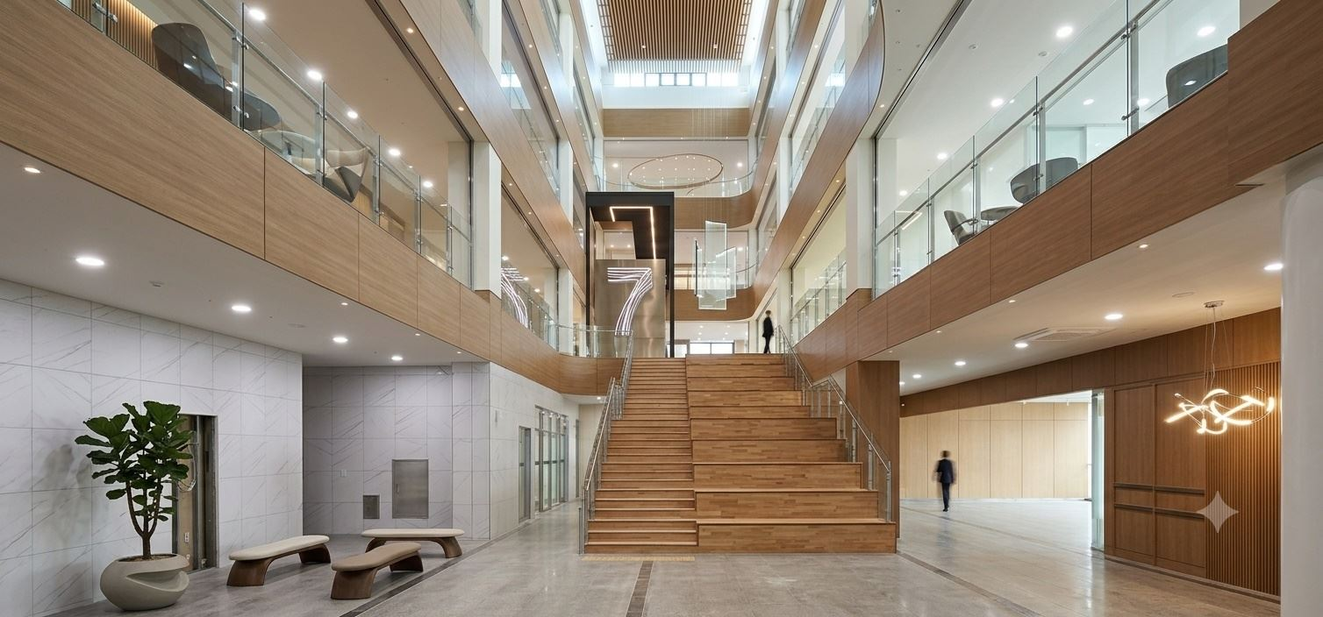
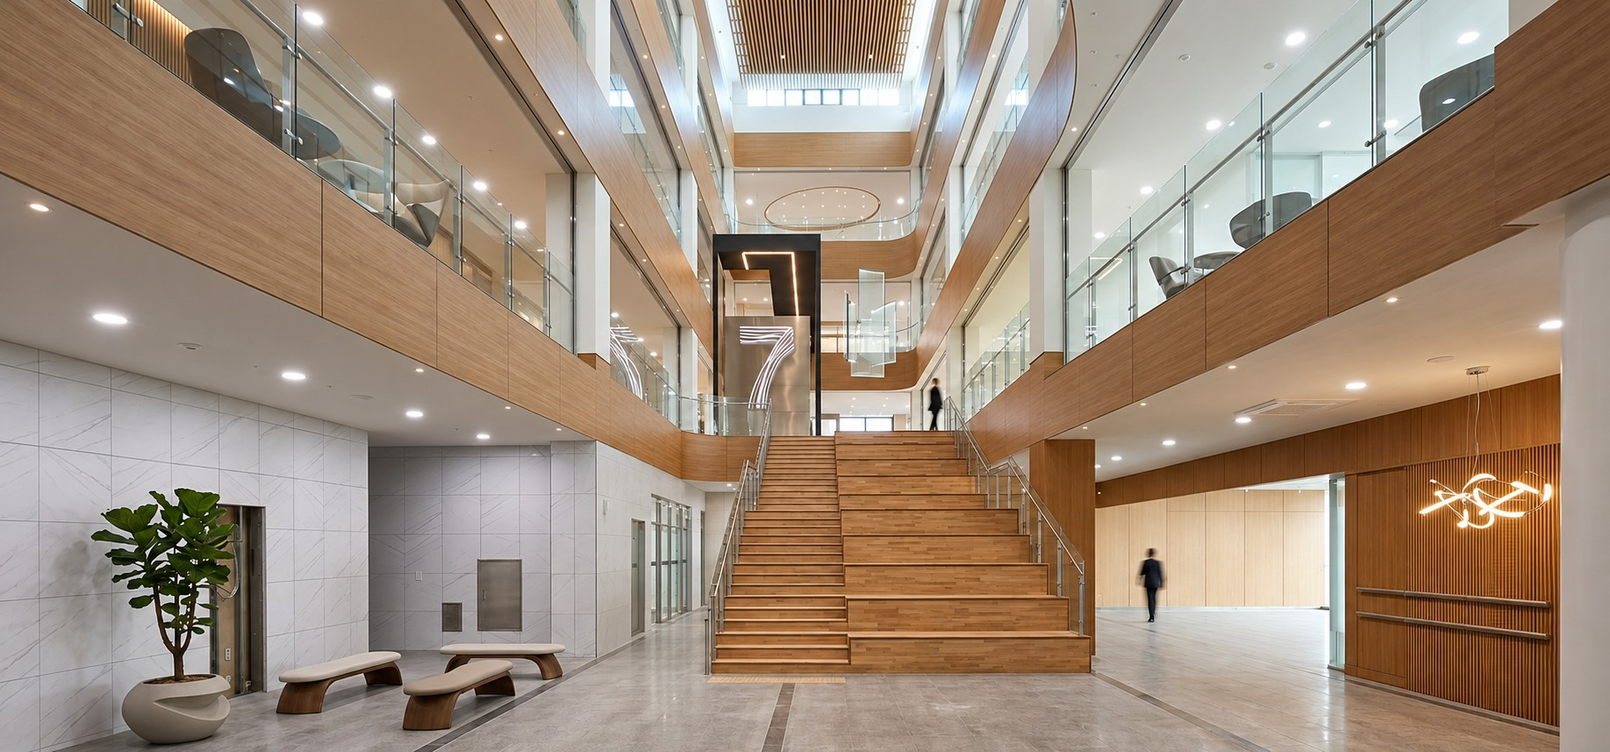
Prioritize open-chat inquiries, reduce telephone size, and clean lobby photo

diff --git a/index.html b/index.html
@@ -1,1 +1,1 @@
-<!doctype html><html lang="ko"><head><meta charset="utf-8"><meta name="viewport" content="width=device-width,initial-scale=1,viewport-fit=cover"><meta name="theme-color" content="#f6f5f0"><title>대전 인테리어 전문업체 이공간 | 사무실·주택·아파트 인테리어</title><meta name="description" content="대전 인테리어 전문업체 이공간. 대전 사무실·주택·아파트 인테리어와 대전·세종·충남 리모델링을 상담합니다. 042-525-5894"><meta property="og:type" content="website"><meta property="og:title" content="대전 인테리어 전문업체 이공간 | 사무실·주택·아파트 인테리어"><meta property="og:description" content="대전 인테리어 전문업체 이공간. 대전 사무실·주택·아파트 인테리어와 대전·세종·충남 리모델링을 상담합니다. 042-525-5894"><meta property="og:image" content="https://espace.wngkgus.workers.dev/assets/og-igongan-v3.png"><link rel="icon" href="./assets/favicon.svg?v=3" type="image/svg+xml"><link rel="icon" href="./assets/favicon-64.png?v=3" type="image/png" sizes="64x64"><link rel="shortcut icon" href="./favicon.ico?v=3"><link rel="apple-touch-icon" href="./assets/apple-touch-icon.png?v=3" sizes="180x180"><link rel="stylesheet" href="./assets/style.css"><script type="application/ld+json">{"@context":"https://schema.org","@type":"HomeAndConstructionBusiness","name":"이공간","telephone":"+82-42-525-5894","areaServed":["대전","세종","충청남도"],"description":"대전 인테리어 전문업체 이공간. 사무실·주택·아파트 인테리어 및 리모델링 상담."}</script><meta property="og:image:secure_url" content="https://espace.wngkgus.workers.dev/assets/og-igongan-v3.png"><meta property="og:image:type" content="image/png"><meta property="og:image:width" content="1200"><meta property="og:image:height" content="630"><meta property="og:image:alt" content="이공간 — 공간의 가치를 높이는 인테리어 파트너"><meta property="og:site_name" content="이공간"><meta property="og:locale" content="ko_KR"><meta name="twitter:card" content="summary_large_image"><meta name="twitter:image" content="https://espace.wngkgus.workers.dev/assets/og-igongan-v3.png"><meta name="twitter:title" content="대전 인테리어 전문업체 이공간 | 사무실·주택·아파트 인테리어"><meta name="twitter:description" content="대전 인테리어 전문업체 이공간. 대전 사무실·주택·아파트 인테리어와 대전·세종·충남 리모델링을 상담합니다. 042-525-5894"><link rel="preload" as="image" href="./assets/gallery/portfolio-45.jpg" fetchpriority="high"></head><body data-page="home"><header class="header"><a class="brand" href="./index.html"><svg class="brand-logo" viewBox="0 0 164 44" role="img" aria-label="이공간"><rect x="1.5" y="6.5" width="22" height="22" fill="none" stroke="currentColor" stroke-width="1.6"/><rect x="11.5" y="15.5" width="22" height="22" fill="none" stroke="#a39473" stroke-width="1.6"/><text x="46" y="27" font-family="'Noto Serif KR',serif" font-size="22" font-weight="600" letter-spacing="6" fill="currentColor">이공간</text><text x="47" y="40" font-family="'DM Sans',sans-serif" font-size="7" font-weight="500" letter-spacing="2.6" fill="currentColor" opacity=".62">IGONGAN INTERIOR</text></svg></a><button class="menu-toggle" aria-label="메뉴 열기" aria-expanded="false"><span></span><span></span></button><nav class="main-nav"><a href="./index.html">Home</a><a href="./about/index.html">About</a><a href="./portfolio/index.html">Portfolio</a><a class="nav-call" href="./reservation/index.html">Reservation <span>↗</span></a></nav></header><main><section class="hero"><div class="hero-photo hero-slide hero-slide-one is-active" role="img" aria-label="충남사회적경제혁신타운 로비 인테리어"></div><div class="hero-photo hero-slide hero-slide-two" role="img" aria-label="한국수자원공사 정보관 회의실"></div><div class="hero-shade"></div><div class="hero-copy"><p class="eyebrow">SPACE, MADE FOR LIFE</p><h1>혁신적인 공간,<br><em>편안한 현실이 되다.</em></h1><p class="hero-sub">가치를 높이는 공간 솔루션,<br>주식회사 이공간이 함께합니다.</p><a class="hero-action" href="./reservation/index.html">내 공간에 맞는 상담 시작하기 <span>↗</span></a><a class="round-link" href="./portfolio/index.html" aria-label="포트폴리오 보기">↘</a><span class="hero-index">01 — 02</span></div><div class="hero-dots" aria-label="메인 사진 선택"><button type="button" class="is-active" aria-label="첫 번째 사진"></button><button type="button" aria-label="두 번째 사진"></button></div><div class="hero-caption"><span>DESIGN THAT FEELS LIKE YOU</span><span>INTERIOR · REMODELING</span></div></section><section class="intro section-pad"><div class="section-kicker">01 / ABOUT IGONGAN</div><div class="intro-grid"><h2>좋은 공간은<br><em>생활을 이해하는 것</em>에서<br>시작됩니다.</h2><div class="intro-text"><p>집과 일터, 매일을 보내는 공간에 필요한 변화는 무엇일까요. 이공간은 쓰임과 취향을 먼저 듣고, 오래 편안한 공간을 함께 그립니다.</p><a class="text-link" href="./about/index.html">이공간 이야기 <span>↗</span></a></div></div><div class="intro-line"></div></section><section class="work section-pad"><div class="section-head"><div><div class="section-kicker">02 / SELECTED WORKS</div><h2>공간마다 다른 이야기</h2></div><a class="text-link" href="./portfolio/index.html">전체 포트폴리오 <span>↗</span></a></div><div class="work-grid"><a class="work-card work-large" href="./portfolio/index.html"><img src="./assets/gallery/portfolio-18.jpg" alt="이음학교 도서관 인테리어 시공 사례" loading="lazy"><span class="work-label">EDUCATION <small>이음학교 · 도서관</small></span></a><a class="work-card" href="./portfolio/index.html"><img src="./assets/gallery/portfolio-36.jpg" alt="업무공간 인테리어 시공 사례" loading="lazy"><span class="work-label">OFFICE <small>업무 공간</small></span></a><a class="work-card" href="./portfolio/index.html"><img src="./assets/gallery/portfolio-53.jpg" alt="주택 인테리어 시공 사례" loading="lazy"><span class="work-label">RESIDENTIAL <small>소정리 주택</small></span></a></div></section><section class="feature-values section-pad"><div class="section-kicker">WHAT MATTERS TO US</div><div class="feature-values-grid"><article><div class="feature-icon"><svg viewBox="0 0 48 48" aria-hidden="true"><path d="M8 21 24 9l16 12M13 19v19h22V19M20 38V26h8v12M18 17h12"/></svg></div><h3>편리성</h3><p>사용자 중심의 효율적인 동선과 실용적인 맞춤형 공간으로 매일이 편리한 공간을 연출합니다.</p></article><article><div class="feature-icon"><svg viewBox="0 0 48 48" aria-hidden="true"><path d="m10 35 4-11 17-17a4 4 0 0 1 6 6L20 30l-10 5ZM14 24l11 10M29 10l8 8M8 40h32"/></svg></div><h3>디테일</h3><p>눈에 보이지 않는 공정까지 살피고 섬세한 마감으로 완성도를 높입니다.</p></article><article><div class="feature-icon"><svg viewBox="0 0 48 48" aria-hidden="true"><path d="M11 8h26v32H11zM17 17h14M17 24h7M17 32l4 4 10-11"/></svg></div><h3>지속가능성</h3><p>검증된 자재와 기초 시공으로 오래도록 가치를 유지하는 공간을 지향합니다.</p></article></div></section><section class="specialty-section section-pad"><div class="section-kicker">SPACE SOLUTIONS</div><h2>공간별 맞춤 전문 시공 분야</h2><div class="specialty-grid"><article><span>OFFICE</span><h3>오피스 공간</h3><ul><li>기업 아이덴티티 반영</li><li>업무 효율을 높이는 동선</li><li>스마트한 사무환경</li></ul></article><article><span>COMMERCIAL</span><h3>상업 공간</h3><ul><li>매장을 위한 트렌디한 디자인</li><li>고객 중심 동선과 조명</li><li>브랜드 가치를 살리는 연출</li></ul></article><article><span>RESIDENTIAL</span><h3>주거 공간</h3><ul><li>1:1 맞춤형 라이프스타일</li><li>수납과 구조 개선</li><li>친환경 자재를 고려한 시공</li></ul></article></div></section><section class="services section-pad"><div class="services-intro"><div class="section-kicker">03 / WHAT WE DO</div><h2>필요한 공간을<br><em>제대로</em> 만듭니다.</h2><p>공간의 목적과 생활 방식에 맞춰<br>처음부터 마무리까지 함께합니다.</p><a class="text-link" href="./reservation/index.html">상담 문의 <span>↗</span></a></div><div class="service-list"><a href="./daejeon-office-interior/index.html">사무실 인테리어<span>↗</span></a><a href="./daejeon-sejong-chungnam-interior/index.html">지역 맞춤 인테리어<span>↗</span></a><a href="./daejeon-house-interior/index.html">주택 인테리어<span>↗</span></a><a href="./daejeon-apartment-interior/index.html">아파트 인테리어<span>↗</span></a><a href="./daejeon-remodeling/index.html">리모델링<span>↗</span></a><a href="./daejeon-sejong-chungnam-remodeling/index.html">지역 맞춤 리모델링<span>↗</span></a></div></section><section class="cta"><div class="cta-bg"></div><div class="cta-copy"><p class="eyebrow">LET'S TALK ABOUT YOUR SPACE</p><h2>다음 공간 이야기를<br>들려주세요.</h2><div class="chat-inquiry"><div class="contact-channel-links"><a class="chat-inquiry-link phone-inquiry-link" href="tel:0425255894"><svg viewBox="0 0 24 24" aria-hidden="true" fill="none" stroke="currentColor" stroke-width="1.7" stroke-linecap="round" stroke-linejoin="round"><path d="M22 16.9v3a2 2 0 0 1-2.2 2A19.8 19.8 0 0 1 3.1 5.2 2 2 0 0 1 5.1 3h3a2 2 0 0 1 2 1.7c.1 1 .4 2 .7 2.9a2 2 0 0 1-.5 2.1L9 11a16 16 0 0 0 4 4l1.3-1.3a2 2 0 0 1 2.1-.5c.9.3 1.9.6 2.9.7a2 2 0 0 1 1.7 2Z"/></svg><span>전화로 상담하기</span><span aria-hidden="true">↗</span></a><a class="chat-inquiry-link" href="https://open.kakao.com/o/sbT8mOVi" target="_blank" rel="noopener noreferrer"><svg viewBox="0 0 24 24" aria-hidden="true"><path fill="currentColor" d="M12 3C6.5 3 2 6.4 2 10.6c0 2.7 1.8 5 4.4 6.4l-1.1 4 4.6-2.8c.7.1 1.4.2 2.1.2 5.5 0 10-3.5 10-7.8S17.5 3 12 3Z"/></svg><span>카카오톡 오픈채팅 문의</span><span aria-hidden="true">↗</span></a><a class="chat-inquiry-link blog-inquiry-link" href="https://blog.naver.com/espacec" target="_blank" rel="noopener noreferrer"><svg viewBox="0 0 24 24" aria-hidden="true" fill="none" stroke="currentColor" stroke-width="1.6" stroke-linecap="round" stroke-linejoin="round"><rect x="4" y="3" width="16" height="18" rx="2"/><path d="M8 8h8M8 12h8M8 16h5"/></svg><span>이공간 네이버 블로그</span><span aria-hidden="true">↗</span></a></div><p class="chat-inquiry-note">전화·카카오톡으로 상담하거나 블로그에서 시공 사례를 확인해 보세요.</p></div></div></section></main><footer class="footer"><div class="footer-top"><svg class="brand-logo" viewBox="0 0 164 44" role="img" aria-label="이공간"><rect x="1.5" y="6.5" width="22" height="22" fill="none" stroke="currentColor" stroke-width="1.6"/><rect x="11.5" y="15.5" width="22" height="22" fill="none" stroke="#a39473" stroke-width="1.6"/><text x="46" y="27" font-family="'Noto Serif KR',serif" font-size="22" font-weight="600" letter-spacing="6" fill="currentColor">이공간</text><text x="47" y="40" font-family="'DM Sans',sans-serif" font-size="7" font-weight="500" letter-spacing="2.6" fill="currentColor" opacity=".62">IGONGAN INTERIOR</text></svg></div><address class="footer-info"><span><b>주소</b>대전광역시 유성구 학하중앙로 205 2층</span><span><b>Tel</b><a href="tel:0425255894">042-525-5894</a></span><span><b>Fax</b>042-525-5897</span><span><b>E-mail</b><a href="mailto:espacec@naver.com">espacec@naver.com</a></span></address><div class="footer-bottom"><span>인테리어 전문업체 이공간</span><span>© IGONGAN. ALL RIGHTS RESERVED.</span></div></footer><div class="mobile-call"><a href="tel:0425255894"><span class="call-icon">↗</span><span><small>공간 상담 전화</small><b>042-525-5894</b></span></a></div><script src="./assets/site.js" defer></script><nav class="social-shortcuts" aria-label="이공간 소셜 바로가기"><a class="social-shortcut social-blog" href="https://blog.naver.com/espacec" target="_blank" rel="noopener noreferrer" aria-label="이공간 네이버 블로그 열기 (새 창)" title="네이버 블로그"><svg viewBox="0 0 40 40" aria-hidden="true"><path fill="currentColor" d="M9 7h22a5 5 0 0 1 5 5v14a5 5 0 0 1-5 5h-9l-7 6v-6H9a5 5 0 0 1-5-5V12a5 5 0 0 1 5-5Z"/><text x="20" y="23" text-anchor="middle" fill="#03c75a" font-family="Arial,sans-serif" font-weight="700" font-size="12">blog</text></svg></a><a class="social-shortcut social-kakao" href="https://open.kakao.com/o/sbT8mOVi" target="_blank" rel="noopener noreferrer" aria-label="이공간 카카오톡 상담 열기 (새 창)" title="카카오톡 상담"><svg viewBox="0 0 40 40" aria-hidden="true"><path fill="currentColor" d="M20 5C10 5 2 11.1 2 18.6c0 4.8 3.2 9 8 11.4l-2 7 8.3-4.9c1.2.2 2.4.3 3.7.3 10 0 18-6.2 18-13.8S30 5 20 5Z"/><text x="20" y="22" text-anchor="middle" fill="#fee500" font-family="Arial,sans-serif" font-weight="900" font-size="11">TALK</text></svg></a></nav></body></html>
+<!doctype html><html lang="ko"><head><meta charset="utf-8"><meta name="viewport" content="width=device-width,initial-scale=1,viewport-fit=cover"><meta name="theme-color" content="#f6f5f0"><title>대전 인테리어 전문업체 이공간 | 사무실·주택·아파트 인테리어</title><meta name="description" content="대전 인테리어 전문업체 이공간. 대전 사무실·주택·아파트 인테리어와 대전·세종·충남 리모델링을 상담합니다. 042-525-5894"><meta property="og:type" content="website"><meta property="og:title" content="대전 인테리어 전문업체 이공간 | 사무실·주택·아파트 인테리어"><meta property="og:description" content="대전 인테리어 전문업체 이공간. 대전 사무실·주택·아파트 인테리어와 대전·세종·충남 리모델링을 상담합니다. 042-525-5894"><meta property="og:image" content="https://espace.wngkgus.workers.dev/assets/og-igongan-v3.png"><link rel="icon" href="./assets/favicon.svg?v=3" type="image/svg+xml"><link rel="icon" href="./assets/favicon-64.png?v=3" type="image/png" sizes="64x64"><link rel="shortcut icon" href="./favicon.ico?v=3"><link rel="apple-touch-icon" href="./assets/apple-touch-icon.png?v=3" sizes="180x180"><link rel="stylesheet" href="./assets/style.css"><script type="application/ld+json">{"@context":"https://schema.org","@type":"HomeAndConstructionBusiness","name":"이공간","telephone":"+82-42-525-5894","areaServed":["대전","세종","충청남도"],"description":"대전 인테리어 전문업체 이공간. 사무실·주택·아파트 인테리어 및 리모델링 상담."}</script><meta property="og:image:secure_url" content="https://espace.wngkgus.workers.dev/assets/og-igongan-v3.png"><meta property="og:image:type" content="image/png"><meta property="og:image:width" content="1200"><meta property="og:image:height" content="630"><meta property="og:image:alt" content="이공간 — 공간의 가치를 높이는 인테리어 파트너"><meta property="og:site_name" content="이공간"><meta property="og:locale" content="ko_KR"><meta name="twitter:card" content="summary_large_image"><meta name="twitter:image" content="https://espace.wngkgus.workers.dev/assets/og-igongan-v3.png"><meta name="twitter:title" content="대전 인테리어 전문업체 이공간 | 사무실·주택·아파트 인테리어"><meta name="twitter:description" content="대전 인테리어 전문업체 이공간. 대전 사무실·주택·아파트 인테리어와 대전·세종·충남 리모델링을 상담합니다. 042-525-5894"><link rel="preload" as="image" href="./assets/hero-lobby-clean.jpg" fetchpriority="high"></head><body data-page="home"><header class="header"><a class="brand" href="./index.html"><svg class="brand-logo" viewBox="0 0 164 44" role="img" aria-label="이공간"><rect x="1.5" y="6.5" width="22" height="22" fill="none" stroke="currentColor" stroke-width="1.6"/><rect x="11.5" y="15.5" width="22" height="22" fill="none" stroke="#a39473" stroke-width="1.6"/><text x="46" y="27" font-family="'Noto Serif KR',serif" font-size="22" font-weight="600" letter-spacing="6" fill="currentColor">이공간</text><text x="47" y="40" font-family="'DM Sans',sans-serif" font-size="7" font-weight="500" letter-spacing="2.6" fill="currentColor" opacity=".62">IGONGAN INTERIOR</text></svg></a><button class="menu-toggle" aria-label="메뉴 열기" aria-expanded="false"><span></span><span></span></button><nav class="main-nav"><a href="./index.html">Home</a><a href="./about/index.html">About</a><a href="./portfolio/index.html">Portfolio</a><a class="nav-call" href="./reservation/index.html">Reservation <span>↗</span></a></nav></header><main><section class="hero"><div class="hero-photo hero-slide hero-slide-one is-active" role="img" aria-label="충남사회적경제혁신타운 로비 인테리어"></div><div class="hero-photo hero-slide hero-slide-two" role="img" aria-label="한국수자원공사 정보관 회의실"></div><div class="hero-shade"></div><div class="hero-copy"><p class="eyebrow">SPACE, MADE FOR LIFE</p><h1>혁신적인 공간,<br><em>편안한 현실이 되다.</em></h1><p class="hero-sub">가치를 높이는 공간 솔루션,<br>주식회사 이공간이 함께합니다.</p><a class="hero-action" href="./reservation/index.html">내 공간에 맞는 상담 시작하기 <span>↗</span></a><a class="round-link" href="./portfolio/index.html" aria-label="포트폴리오 보기">↘</a><span class="hero-index">01 — 02</span></div><div class="hero-dots" aria-label="메인 사진 선택"><button type="button" class="is-active" aria-label="첫 번째 사진"></button><button type="button" aria-label="두 번째 사진"></button></div><div class="hero-caption"><span>DESIGN THAT FEELS LIKE YOU</span><span>INTERIOR · REMODELING</span></div></section><section class="intro section-pad"><div class="section-kicker">01 / ABOUT IGONGAN</div><div class="intro-grid"><h2>좋은 공간은<br><em>생활을 이해하는 것</em>에서<br>시작됩니다.</h2><div class="intro-text"><p>집과 일터, 매일을 보내는 공간에 필요한 변화는 무엇일까요. 이공간은 쓰임과 취향을 먼저 듣고, 오래 편안한 공간을 함께 그립니다.</p><a class="text-link" href="./about/index.html">이공간 이야기 <span>↗</span></a></div></div><div class="intro-line"></div></section><section class="work section-pad"><div class="section-head"><div><div class="section-kicker">02 / SELECTED WORKS</div><h2>공간마다 다른 이야기</h2></div><a class="text-link" href="./portfolio/index.html">전체 포트폴리오 <span>↗</span></a></div><div class="work-grid"><a class="work-card work-large" href="./portfolio/index.html"><img src="./assets/gallery/portfolio-18.jpg" alt="이음학교 도서관 인테리어 시공 사례" loading="lazy"><span class="work-label">EDUCATION <small>이음학교 · 도서관</small></span></a><a class="work-card" href="./portfolio/index.html"><img src="./assets/gallery/portfolio-36.jpg" alt="업무공간 인테리어 시공 사례" loading="lazy"><span class="work-label">OFFICE <small>업무 공간</small></span></a><a class="work-card" href="./portfolio/index.html"><img src="./assets/gallery/portfolio-53.jpg" alt="주택 인테리어 시공 사례" loading="lazy"><span class="work-label">RESIDENTIAL <small>소정리 주택</small></span></a></div></section><section class="feature-values section-pad"><div class="section-kicker">WHAT MATTERS TO US</div><div class="feature-values-grid"><article><div class="feature-icon"><svg viewBox="0 0 48 48" aria-hidden="true"><path d="M8 21 24 9l16 12M13 19v19h22V19M20 38V26h8v12M18 17h12"/></svg></div><h3>편리성</h3><p>사용자 중심의 효율적인 동선과 실용적인 맞춤형 공간으로 매일이 편리한 공간을 연출합니다.</p></article><article><div class="feature-icon"><svg viewBox="0 0 48 48" aria-hidden="true"><path d="m10 35 4-11 17-17a4 4 0 0 1 6 6L20 30l-10 5ZM14 24l11 10M29 10l8 8M8 40h32"/></svg></div><h3>디테일</h3><p>눈에 보이지 않는 공정까지 살피고 섬세한 마감으로 완성도를 높입니다.</p></article><article><div class="feature-icon"><svg viewBox="0 0 48 48" aria-hidden="true"><path d="M11 8h26v32H11zM17 17h14M17 24h7M17 32l4 4 10-11"/></svg></div><h3>지속가능성</h3><p>검증된 자재와 기초 시공으로 오래도록 가치를 유지하는 공간을 지향합니다.</p></article></div></section><section class="specialty-section section-pad"><div class="section-kicker">SPACE SOLUTIONS</div><h2>공간별 맞춤 전문 시공 분야</h2><div class="specialty-grid"><article><span>OFFICE</span><h3>오피스 공간</h3><ul><li>기업 아이덴티티 반영</li><li>업무 효율을 높이는 동선</li><li>스마트한 사무환경</li></ul></article><article><span>COMMERCIAL</span><h3>상업 공간</h3><ul><li>매장을 위한 트렌디한 디자인</li><li>고객 중심 동선과 조명</li><li>브랜드 가치를 살리는 연출</li></ul></article><article><span>RESIDENTIAL</span><h3>주거 공간</h3><ul><li>1:1 맞춤형 라이프스타일</li><li>수납과 구조 개선</li><li>친환경 자재를 고려한 시공</li></ul></article></div></section><section class="services section-pad"><div class="services-intro"><div class="section-kicker">03 / WHAT WE DO</div><h2>필요한 공간을<br><em>제대로</em> 만듭니다.</h2><p>공간의 목적과 생활 방식에 맞춰<br>처음부터 마무리까지 함께합니다.</p><a class="text-link" href="./reservation/index.html">상담 문의 <span>↗</span></a></div><div class="service-list"><a href="./daejeon-office-interior/index.html">사무실 인테리어<span>↗</span></a><a href="./daejeon-sejong-chungnam-interior/index.html">지역 맞춤 인테리어<span>↗</span></a><a href="./daejeon-house-interior/index.html">주택 인테리어<span>↗</span></a><a href="./daejeon-apartment-interior/index.html">아파트 인테리어<span>↗</span></a><a href="./daejeon-remodeling/index.html">리모델링<span>↗</span></a><a href="./daejeon-sejong-chungnam-remodeling/index.html">지역 맞춤 리모델링<span>↗</span></a></div></section><section class="cta"><div class="cta-bg"></div><div class="cta-copy"><p class="eyebrow">LET'S TALK ABOUT YOUR SPACE</p><h2>다음 공간 이야기를<br>들려주세요.</h2><div class="chat-inquiry"><div class="contact-channel-links"><a class="chat-inquiry-link phone-inquiry-link" href="tel:0425255894"><svg viewBox="0 0 24 24" aria-hidden="true" fill="none" stroke="currentColor" stroke-width="1.7" stroke-linecap="round" stroke-linejoin="round"><path d="M22 16.9v3a2 2 0 0 1-2.2 2A19.8 19.8 0 0 1 3.1 5.2 2 2 0 0 1 5.1 3h3a2 2 0 0 1 2 1.7c.1 1 .4 2 .7 2.9a2 2 0 0 1-.5 2.1L9 11a16 16 0 0 0 4 4l1.3-1.3a2 2 0 0 1 2.1-.5c.9.3 1.9.6 2.9.7a2 2 0 0 1 1.7 2Z"/></svg><span>전화로 상담하기</span><span aria-hidden="true">↗</span></a><a class="chat-inquiry-link" href="https://open.kakao.com/o/sbT8mOVi" target="_blank" rel="noopener noreferrer"><svg viewBox="0 0 24 24" aria-hidden="true"><path fill="currentColor" d="M12 3C6.5 3 2 6.4 2 10.6c0 2.7 1.8 5 4.4 6.4l-1.1 4 4.6-2.8c.7.1 1.4.2 2.1.2 5.5 0 10-3.5 10-7.8S17.5 3 12 3Z"/></svg><span>카카오톡 오픈채팅 문의</span><span aria-hidden="true">↗</span></a><a class="chat-inquiry-link blog-inquiry-link" href="https://blog.naver.com/espacec" target="_blank" rel="noopener noreferrer"><svg viewBox="0 0 24 24" aria-hidden="true" fill="none" stroke="currentColor" stroke-width="1.6" stroke-linecap="round" stroke-linejoin="round"><rect x="4" y="3" width="16" height="18" rx="2"/><path d="M8 8h8M8 12h8M8 16h5"/></svg><span>이공간 네이버 블로그</span><span aria-hidden="true">↗</span></a></div><p class="chat-inquiry-note">전화·카카오톡으로 상담하거나 블로그에서 시공 사례를 확인해 보세요.</p></div></div></section></main><footer class="footer"><div class="footer-top"><svg class="brand-logo" viewBox="0 0 164 44" role="img" aria-label="이공간"><rect x="1.5" y="6.5" width="22" height="22" fill="none" stroke="currentColor" stroke-width="1.6"/><rect x="11.5" y="15.5" width="22" height="22" fill="none" stroke="#a39473" stroke-width="1.6"/><text x="46" y="27" font-family="'Noto Serif KR',serif" font-size="22" font-weight="600" letter-spacing="6" fill="currentColor">이공간</text><text x="47" y="40" font-family="'DM Sans',sans-serif" font-size="7" font-weight="500" letter-spacing="2.6" fill="currentColor" opacity=".62">IGONGAN INTERIOR</text></svg></div><address class="footer-info"><span><b>주소</b>대전광역시 유성구 학하중앙로 205 2층</span><span><b>Tel</b><a href="tel:0425255894">042-525-5894</a></span><span><b>Fax</b>042-525-5897</span><span><b>E-mail</b><a href="mailto:espacec@naver.com">espacec@naver.com</a></span></address><div class="footer-bottom"><span>인테리어 전문업체 이공간</span><span>© IGONGAN. ALL RIGHTS RESERVED.</span></div></footer><div class="mobile-call"><a href="tel:0425255894"><span class="call-icon">↗</span><span><small>공간 상담 전화</small><b>042-525-5894</b></span></a></div><script src="./assets/site.js" defer></script><nav class="social-shortcuts" aria-label="이공간 소셜 바로가기"><a class="social-shortcut social-blog" href="https://blog.naver.com/espacec" target="_blank" rel="noopener noreferrer" aria-label="이공간 네이버 블로그 열기 (새 창)" title="네이버 블로그"><svg viewBox="0 0 40 40" aria-hidden="true"><path fill="currentColor" d="M9 7h22a5 5 0 0 1 5 5v14a5 5 0 0 1-5 5h-9l-7 6v-6H9a5 5 0 0 1-5-5V12a5 5 0 0 1 5-5Z"/><text x="20" y="23" text-anchor="middle" fill="#03c75a" font-family="Arial,sans-serif" font-weight="700" font-size="12">blog</text></svg></a><a class="social-shortcut social-kakao" href="https://open.kakao.com/o/sbT8mOVi" target="_blank" rel="noopener noreferrer" aria-label="이공간 카카오톡 상담 열기 (새 창)" title="카카오톡 상담"><svg viewBox="0 0 40 40" aria-hidden="true"><path fill="currentColor" d="M20 5C10 5 2 11.1 2 18.6c0 4.8 3.2 9 8 11.4l-2 7 8.3-4.9c1.2.2 2.4.3 3.7.3 10 0 18-6.2 18-13.8S30 5 20 5Z"/><text x="20" y="22" text-anchor="middle" fill="#fee500" font-family="Arial,sans-serif" font-weight="900" font-size="11">TALK</text></svg></a></nav></body></html>

diff --git a/reservation/index.html b/reservation/index.html
@@ -1,1 +1,1 @@
-<!doctype html><html lang="ko"><head><meta charset="utf-8"><meta name="viewport" content="width=device-width,initial-scale=1,viewport-fit=cover"><meta name="theme-color" content="#f6f5f0"><title>상담 문의 | 이공간 대전 인테리어</title><meta name="description" content="대전 인테리어·리모델링 상담 문의. 이공간 전화 042-525-5894. 대전, 세종, 충남."><meta property="og:type" content="website"><meta property="og:title" content="상담 문의 | 이공간 대전 인테리어"><meta property="og:description" content="대전 인테리어·리모델링 상담 문의. 이공간 전화 042-525-5894. 대전, 세종, 충남."><meta property="og:image" content="https://espace.wngkgus.workers.dev/assets/og-igongan-v3.png"><link rel="icon" href="../assets/favicon.svg?v=3" type="image/svg+xml"><link rel="icon" href="../assets/favicon-64.png?v=3" type="image/png" sizes="64x64"><link rel="shortcut icon" href="../favicon.ico?v=3"><link rel="apple-touch-icon" href="../assets/apple-touch-icon.png?v=3" sizes="180x180"><link rel="stylesheet" href="../assets/style.css"><script type="application/ld+json">{"@context":"https://schema.org","@type":"HomeAndConstructionBusiness","name":"이공간","telephone":"+82-42-525-5894","areaServed":["대전","세종","충청남도"],"description":"대전 인테리어 전문업체 이공간. 사무실·주택·아파트 인테리어 및 리모델링 상담."}</script><meta property="og:image:secure_url" content="https://espace.wngkgus.workers.dev/assets/og-igongan-v3.png"><meta property="og:image:type" content="image/png"><meta property="og:image:width" content="1200"><meta property="og:image:height" content="630"><meta property="og:image:alt" content="이공간 — 공간의 가치를 높이는 인테리어 파트너"><meta property="og:site_name" content="이공간"><meta property="og:locale" content="ko_KR"><meta name="twitter:card" content="summary_large_image"><meta name="twitter:image" content="https://espace.wngkgus.workers.dev/assets/og-igongan-v3.png"><meta name="twitter:title" content="상담 문의 | 이공간 대전 인테리어"><meta name="twitter:description" content="대전 인테리어·리모델링 상담 문의. 이공간 전화 042-525-5894. 대전, 세종, 충남."></head><body data-page="reservation"><header class="header"><a class="brand" href="../index.html"><svg class="brand-logo" viewBox="0 0 164 44" role="img" aria-label="이공간"><rect x="1.5" y="6.5" width="22" height="22" fill="none" stroke="currentColor" stroke-width="1.6"/><rect x="11.5" y="15.5" width="22" height="22" fill="none" stroke="#a39473" stroke-width="1.6"/><text x="46" y="27" font-family="'Noto Serif KR',serif" font-size="22" font-weight="600" letter-spacing="6" fill="currentColor">이공간</text><text x="47" y="40" font-family="'DM Sans',sans-serif" font-size="7" font-weight="500" letter-spacing="2.6" fill="currentColor" opacity=".62">IGONGAN INTERIOR</text></svg></a><button class="menu-toggle" aria-label="메뉴 열기" aria-expanded="false"><span></span><span></span></button><nav class="main-nav"><a href="../index.html">Home</a><a href="../about/index.html">About</a><a href="../portfolio/index.html">Portfolio</a><a class="nav-call" href="../reservation/index.html">Reservation <span>↗</span></a></nav></header><main><section class="contact-page section-pad"><p class="eyebrow">RESERVATION <i></i> CONTACT</p><h1>공간 이야기를<br><em>들려주세요.</em></h1><p class="contact-lead">로그인이나 온라인 예약 없이<br>전화 또는 카카오톡으로 편하게 문의하실 수 있습니다.</p><a class="contact-number" href="tel:0425255894">042-525-5894 <span>↗</span></a><p class="contact-note">전화번호를 누르면 전화로 연결됩니다.</p><div class="chat-inquiry"><div class="contact-channel-links"><a class="chat-inquiry-link" href="https://open.kakao.com/o/sbT8mOVi" target="_blank" rel="noopener noreferrer"><svg viewBox="0 0 24 24" aria-hidden="true"><path fill="currentColor" d="M12 3C6.5 3 2 6.4 2 10.6c0 2.7 1.8 5 4.4 6.4l-1.1 4 4.6-2.8c.7.1 1.4.2 2.1.2 5.5 0 10-3.5 10-7.8S17.5 3 12 3Z"/></svg><span>카카오톡 오픈채팅 문의</span><span aria-hidden="true">↗</span></a><a class="chat-inquiry-link blog-inquiry-link" href="https://blog.naver.com/espacec" target="_blank" rel="noopener noreferrer"><svg viewBox="0 0 24 24" aria-hidden="true" fill="none" stroke="currentColor" stroke-width="1.6" stroke-linecap="round" stroke-linejoin="round"><rect x="4" y="3" width="16" height="18" rx="2"/><path d="M8 8h8M8 12h8M8 16h5"/></svg><span>이공간 네이버 블로그</span><span aria-hidden="true">↗</span></a></div><p class="chat-inquiry-note">카카오톡으로 상담하거나 블로그에서 시공 사례를 확인해 보세요.</p></div><div class="contact-bottom"><span>INTERIOR / REMODELING</span></div></section></main><footer class="footer"><div class="footer-top"><svg class="brand-logo" viewBox="0 0 164 44" role="img" aria-label="이공간"><rect x="1.5" y="6.5" width="22" height="22" fill="none" stroke="currentColor" stroke-width="1.6"/><rect x="11.5" y="15.5" width="22" height="22" fill="none" stroke="#a39473" stroke-width="1.6"/><text x="46" y="27" font-family="'Noto Serif KR',serif" font-size="22" font-weight="600" letter-spacing="6" fill="currentColor">이공간</text><text x="47" y="40" font-family="'DM Sans',sans-serif" font-size="7" font-weight="500" letter-spacing="2.6" fill="currentColor" opacity=".62">IGONGAN INTERIOR</text></svg></div><address class="footer-info"><span><b>주소</b>대전광역시 유성구 학하중앙로 205 2층</span><span><b>Tel</b><a href="tel:0425255894">042-525-5894</a></span><span><b>Fax</b>042-525-5897</span><span><b>E-mail</b><a href="mailto:espacec@naver.com">espacec@naver.com</a></span></address><div class="footer-bottom"><span>인테리어 전문업체 이공간</span><span>© IGONGAN. ALL RIGHTS RESERVED.</span></div></footer><div class="mobile-call"><a href="tel:0425255894"><span class="call-icon">↗</span><span><small>공간 상담 전화</small><b>042-525-5894</b></span></a></div><script src="../assets/site.js" defer></script><nav class="social-shortcuts" aria-label="이공간 소셜 바로가기"><a class="social-shortcut social-blog" href="https://blog.naver.com/espacec" target="_blank" rel="noopener noreferrer" aria-label="이공간 네이버 블로그 열기 (새 창)" title="네이버 블로그"><svg viewBox="0 0 40 40" aria-hidden="true"><path fill="currentColor" d="M9 7h22a5 5 0 0 1 5 5v14a5 5 0 0 1-5 5h-9l-7 6v-6H9a5 5 0 0 1-5-5V12a5 5 0 0 1 5-5Z"/><text x="20" y="23" text-anchor="middle" fill="#03c75a" font-family="Arial,sans-serif" font-weight="700" font-size="12">blog</text></svg></a><a class="social-shortcut social-kakao" href="https://open.kakao.com/o/sbT8mOVi" target="_blank" rel="noopener noreferrer" aria-label="이공간 카카오톡 상담 열기 (새 창)" title="카카오톡 상담"><svg viewBox="0 0 40 40" aria-hidden="true"><path fill="currentColor" d="M20 5C10 5 2 11.1 2 18.6c0 4.8 3.2 9 8 11.4l-2 7 8.3-4.9c1.2.2 2.4.3 3.7.3 10 0 18-6.2 18-13.8S30 5 20 5Z"/><text x="20" y="22" text-anchor="middle" fill="#fee500" font-family="Arial,sans-serif" font-weight="900" font-size="11">TALK</text></svg></a></nav></body></html>
+<!doctype html><html lang="ko"><head><meta charset="utf-8"><meta name="viewport" content="width=device-width,initial-scale=1,viewport-fit=cover"><meta name="theme-color" content="#f6f5f0"><title>상담 문의 | 이공간 대전 인테리어</title><meta name="description" content="대전 인테리어·리모델링 상담 문의. 이공간 전화 042-525-5894. 대전, 세종, 충남."><meta property="og:type" content="website"><meta property="og:title" content="상담 문의 | 이공간 대전 인테리어"><meta property="og:description" content="대전 인테리어·리모델링 상담 문의. 이공간 전화 042-525-5894. 대전, 세종, 충남."><meta property="og:image" content="https://espace.wngkgus.workers.dev/assets/og-igongan-v3.png"><link rel="icon" href="../assets/favicon.svg?v=3" type="image/svg+xml"><link rel="icon" href="../assets/favicon-64.png?v=3" type="image/png" sizes="64x64"><link rel="shortcut icon" href="../favicon.ico?v=3"><link rel="apple-touch-icon" href="../assets/apple-touch-icon.png?v=3" sizes="180x180"><link rel="stylesheet" href="../assets/style.css"><script type="application/ld+json">{"@context":"https://schema.org","@type":"HomeAndConstructionBusiness","name":"이공간","telephone":"+82-42-525-5894","areaServed":["대전","세종","충청남도"],"description":"대전 인테리어 전문업체 이공간. 사무실·주택·아파트 인테리어 및 리모델링 상담."}</script><meta property="og:image:secure_url" content="https://espace.wngkgus.workers.dev/assets/og-igongan-v3.png"><meta property="og:image:type" content="image/png"><meta property="og:image:width" content="1200"><meta property="og:image:height" content="630"><meta property="og:image:alt" content="이공간 — 공간의 가치를 높이는 인테리어 파트너"><meta property="og:site_name" content="이공간"><meta property="og:locale" content="ko_KR"><meta name="twitter:card" content="summary_large_image"><meta name="twitter:image" content="https://espace.wngkgus.workers.dev/assets/og-igongan-v3.png"><meta name="twitter:title" content="상담 문의 | 이공간 대전 인테리어"><meta name="twitter:description" content="대전 인테리어·리모델링 상담 문의. 이공간 전화 042-525-5894. 대전, 세종, 충남."></head><body data-page="reservation"><header class="header"><a class="brand" href="../index.html"><svg class="brand-logo" viewBox="0 0 164 44" role="img" aria-label="이공간"><rect x="1.5" y="6.5" width="22" height="22" fill="none" stroke="currentColor" stroke-width="1.6"/><rect x="11.5" y="15.5" width="22" height="22" fill="none" stroke="#a39473" stroke-width="1.6"/><text x="46" y="27" font-family="'Noto Serif KR',serif" font-size="22" font-weight="600" letter-spacing="6" fill="currentColor">이공간</text><text x="47" y="40" font-family="'DM Sans',sans-serif" font-size="7" font-weight="500" letter-spacing="2.6" fill="currentColor" opacity=".62">IGONGAN INTERIOR</text></svg></a><button class="menu-toggle" aria-label="메뉴 열기" aria-expanded="false"><span></span><span></span></button><nav class="main-nav"><a href="../index.html">Home</a><a href="../about/index.html">About</a><a href="../portfolio/index.html">Portfolio</a><a class="nav-call" href="../reservation/index.html">Reservation <span>↗</span></a></nav></header><main><section class="contact-page section-pad"><p class="eyebrow">RESERVATION <i></i> CONTACT</p><h1>공간 이야기를<br><em>들려주세요.</em></h1><p class="contact-lead">카카오톡 오픈채팅으로 편하게 문의해 주세요.<br>전화 상담도 가능합니다.</p><div class="chat-inquiry"><div class="contact-channel-links"><a class="chat-inquiry-link" href="https://open.kakao.com/o/sbT8mOVi" target="_blank" rel="noopener noreferrer"><svg viewBox="0 0 24 24" aria-hidden="true"><path fill="currentColor" d="M12 3C6.5 3 2 6.4 2 10.6c0 2.7 1.8 5 4.4 6.4l-1.1 4 4.6-2.8c.7.1 1.4.2 2.1.2 5.5 0 10-3.5 10-7.8S17.5 3 12 3Z"/></svg><span>카카오톡 오픈채팅 문의</span><span aria-hidden="true">↗</span></a><a class="chat-inquiry-link blog-inquiry-link" href="https://blog.naver.com/espacec" target="_blank" rel="noopener noreferrer"><svg viewBox="0 0 24 24" aria-hidden="true" fill="none" stroke="currentColor" stroke-width="1.6" stroke-linecap="round" stroke-linejoin="round"><rect x="4" y="3" width="16" height="18" rx="2"/><path d="M8 8h8M8 12h8M8 16h5"/></svg><span>이공간 네이버 블로그</span><span aria-hidden="true">↗</span></a></div><p class="chat-inquiry-note">카카오톡으로 상담하거나 블로그에서 시공 사례를 확인해 보세요.</p></div><div class="contact-phone-secondary"><span class="contact-phone-label">전화 상담</span><a class="contact-number" href="tel:0425255894">042-525-5894 <span>↗</span></a><p class="contact-note">전화번호를 누르면 연결됩니다.</p></div><div class="contact-bottom"><span>INTERIOR / REMODELING</span></div></section></main><footer class="footer"><div class="footer-top"><svg class="brand-logo" viewBox="0 0 164 44" role="img" aria-label="이공간"><rect x="1.5" y="6.5" width="22" height="22" fill="none" stroke="currentColor" stroke-width="1.6"/><rect x="11.5" y="15.5" width="22" height="22" fill="none" stroke="#a39473" stroke-width="1.6"/><text x="46" y="27" font-family="'Noto Serif KR',serif" font-size="22" font-weight="600" letter-spacing="6" fill="currentColor">이공간</text><text x="47" y="40" font-family="'DM Sans',sans-serif" font-size="7" font-weight="500" letter-spacing="2.6" fill="currentColor" opacity=".62">IGONGAN INTERIOR</text></svg></div><address class="footer-info"><span><b>주소</b>대전광역시 유성구 학하중앙로 205 2층</span><span><b>Tel</b><a href="tel:0425255894">042-525-5894</a></span><span><b>Fax</b>042-525-5897</span><span><b>E-mail</b><a href="mailto:espacec@naver.com">espacec@naver.com</a></span></address><div class="footer-bottom"><span>인테리어 전문업체 이공간</span><span>© IGONGAN. ALL RIGHTS RESERVED.</span></div></footer><div class="mobile-call"><a href="tel:0425255894"><span class="call-icon">↗</span><span><small>공간 상담 전화</small><b>042-525-5894</b></span></a></div><script src="../assets/site.js" defer></script><nav class="social-shortcuts" aria-label="이공간 소셜 바로가기"><a class="social-shortcut social-blog" href="https://blog.naver.com/espacec" target="_blank" rel="noopener noreferrer" aria-label="이공간 네이버 블로그 열기 (새 창)" title="네이버 블로그"><svg viewBox="0 0 40 40" aria-hidden="true"><path fill="currentColor" d="M9 7h22a5 5 0 0 1 5 5v14a5 5 0 0 1-5 5h-9l-7 6v-6H9a5 5 0 0 1-5-5V12a5 5 0 0 1 5-5Z"/><text x="20" y="23" text-anchor="middle" fill="#03c75a" font-family="Arial,sans-serif" font-weight="700" font-size="12">blog</text></svg></a><a class="social-shortcut social-kakao" href="https://open.kakao.com/o/sbT8mOVi" target="_blank" rel="noopener noreferrer" aria-label="이공간 카카오톡 상담 열기 (새 창)" title="카카오톡 상담"><svg viewBox="0 0 40 40" aria-hidden="true"><path fill="currentColor" d="M20 5C10 5 2 11.1 2 18.6c0 4.8 3.2 9 8 11.4l-2 7 8.3-4.9c1.2.2 2.4.3 3.7.3 10 0 18-6.2 18-13.8S30 5 20 5Z"/><text x="20" y="22" text-anchor="middle" fill="#fee500" font-family="Arial,sans-serif" font-weight="900" font-size="11">TALK</text></svg></a></nav></body></html>

diff --git a/assets/style.css b/assets/style.css
@@ -221,7 +221,7 @@ h1,h2,h3,h4,h5,h6{font-family:var(--sans);font-weight:700;letter-spacing:-.035em
 }
 
 /* Select different, subject-appropriate photos for each section. */
-.hero-slide-one{--hero-image:url('gallery/portfolio-45.jpg')}
+.hero-slide-one{--hero-image:url('hero-lobby-clean.jpg')}
 .hero-slide-two{--hero-image:url('gallery/portfolio-56.jpg')}
 .cta-bg{background-image:linear-gradient(rgba(27,38,33,.57),rgba(27,38,33,.58)),url('gallery/portfolio-23.jpg')}
 .about-editorial-photo{height:auto;aspect-ratio:4/3}
@@ -331,4 +331,25 @@ h1,h2,h3,h4,h5,h6{font-family:var(--sans);font-weight:700;letter-spacing:-.035em
 @media(max-width:760px){
 .cta .contact-channel-links{grid-template-columns:1fr;max-width:360px;gap:10px}
 .cta .contact-channel-links .chat-inquiry-link{min-height:52px;padding:13px 18px;font-size:14px}
+}
+
+/* Reservation: emphasize open chat and keep the telephone as a secondary option. */
+.contact-page .chat-inquiry{margin-top:28px;max-width:740px}
+.contact-page .contact-channel-links{display:grid;grid-template-columns:minmax(0,1.25fr) minmax(0,1fr);gap:12px}
+.contact-page .chat-inquiry-link{min-width:0;min-height:64px;padding:16px 20px;gap:12px}
+.contact-page .chat-inquiry-link>span:last-child{margin-left:auto}
+.contact-page .chat-inquiry-link:not(.blog-inquiry-link){background:var(--ink);border-color:var(--ink);color:#fff;font-size:17px;font-weight:700;box-shadow:0 5px 15px rgba(38,51,45,.12)}
+.contact-page .chat-inquiry-link:not(.blog-inquiry-link) svg{width:26px;height:26px}
+.contact-page .blog-inquiry-link{font-size:14px;font-weight:500}
+.contact-phone-secondary{display:flex;align-items:center;flex-wrap:wrap;gap:10px 16px;max-width:740px;margin-top:28px;padding-top:20px;border-top:1px solid var(--line)}
+.contact-phone-label{font-size:13px;color:var(--muted)}
+.contact-page .contact-phone-secondary .contact-number{font-size:26px;line-height:1.4;font-weight:500;letter-spacing:-.025em;border:0;padding:0;gap:10px}
+.contact-phone-secondary .contact-note{margin:0;font-size:12px}
+@media(hover:hover){.contact-page .chat-inquiry-link:not(.blog-inquiry-link):hover{background:#405147;border-color:#405147;color:#fff}}
+@media(max-width:760px){
+.contact-page .contact-channel-links{grid-template-columns:1fr}
+.contact-page .chat-inquiry-link:not(.blog-inquiry-link){font-size:16px;min-height:62px}
+.contact-page .blog-inquiry-link{min-height:50px}
+.contact-page .contact-phone-secondary .contact-number{font-size:23px}
+.contact-phone-secondary .contact-note{flex-basis:100%}
 }
